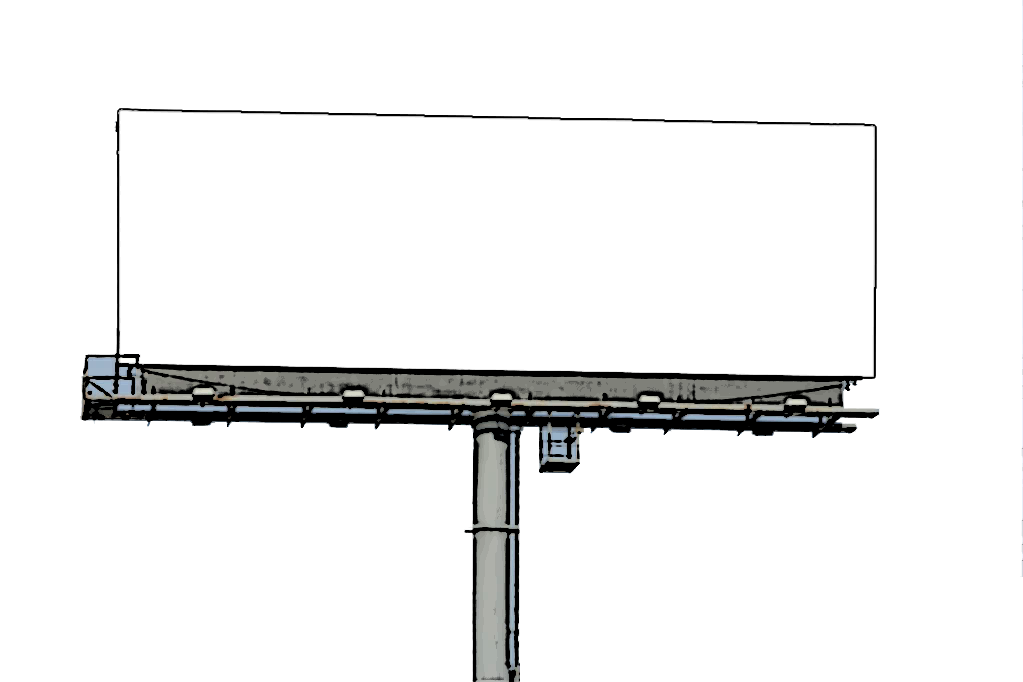
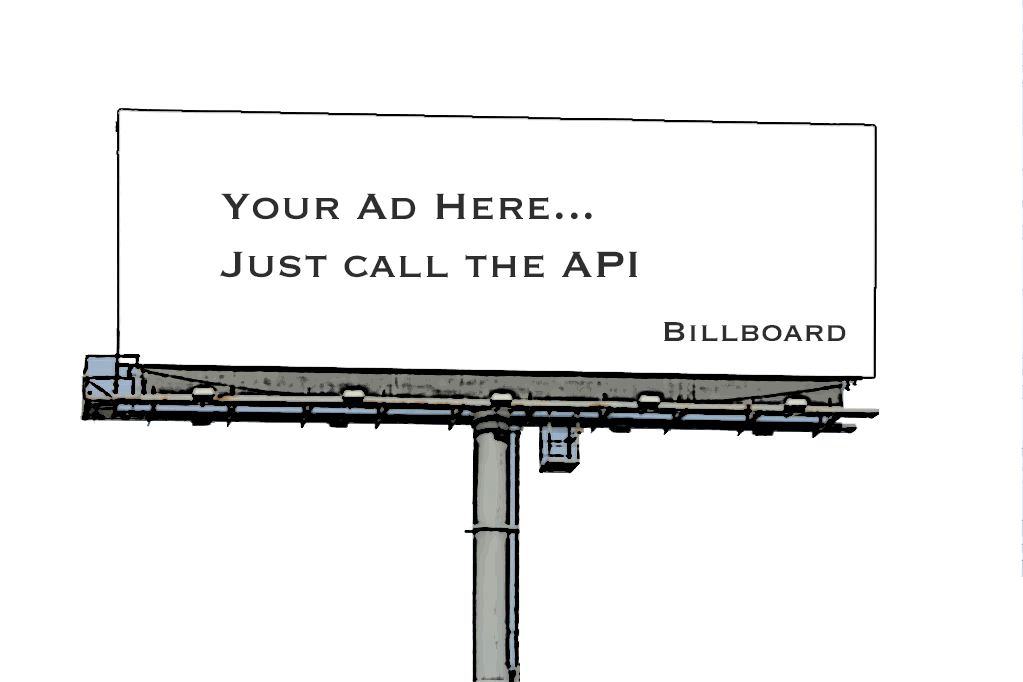
move image to a background image to better handle image scaling

diff --git a/index.html b/index.html
@@ -20,8 +20,9 @@
         <!--[if lt IE 7]>
             <p class="chromeframe">You are using an <strong>outdated</strong> browser. Please <a href="http://browsehappy.com/">upgrade your browser</a> or <a href="http://www.google.com/chromeframe/?redirect=true">activate Google Chrome Frame</a> to improve your experience.</p>
         <![endif]-->
-
-        <img class="showImage offscreen" />
+        
+        <div class="showImage offscreen" ></div>
+        <iframe class="showIFrame offscreen"></iframe>
         
         <!-- Add your site or application content here -->
         <p>Billboard.js</p>

diff --git a/js/main.js b/js/main.js
@@ -25,8 +25,10 @@ socket.on('display', function (data) {
   }, data.maxtime || 3000);
 
   if(data.action === "image"){
-    $("img.showImage").attr("src", data.url);
-    $("img.showImage").addClass("show");
+    $("div.showImage").css({"background-image": "url('"+data.url+"')",
+                            "background-size": "contain",
+                            "background-repeat": "no-repeat"});
+    $("div.showImage").addClass("show");
   }
   if(data.action === "iframe"){
     $("iframe.showIFrame").attr("href", data.url);

diff --git a/css/main.css b/css/main.css
@@ -299,18 +299,22 @@ textarea {
     }
 }
 
-img.showImage{ 
-  max-width:80%;
-  max-height:80%;
-  width:80%;
+div.showImage{ 
+}
+
+.offscreen{ 
   position:absolute;
   top:-3000px;
   transition-property:top;
   transition-duration: 0.5s;
   transition-timing-function: ease-out;
 }
+
 .offscreen.show{ 
-  top:30px;
+  top:0px;
+  left:0px;
+  bottom:0px;
+  right:0px;
   transition-property:top;
   transition-duration: 0.5s;
   transition-timing-function: ease-out;

diff --git a/app.js b/app.js
@@ -31,7 +31,7 @@ app.post('/api/screens/:name/reload', function(req, res){
   res.send({"status": "ok"});
 });
 app.post('/api/screens/:name', function(req, res){
-
+  console.log(req, req.body);
   if(screens[req.params.name] !== undefined){
 
     for(s in screens[req.params.name]){

diff --git a/README.md b/README.md
@@ -29,6 +29,16 @@ List the name of screens that are currently available
         ]
     }
 
+####Reload a screen
+Runs `window.location.reload()`, great way to get a screen client to update.
+
+    curl http://localhost:3000/api/screens/:name:/reload
+
+    {   
+      "status": "ok"
+    }
+
+
 #### Set Screen Display
 
 #####Image
